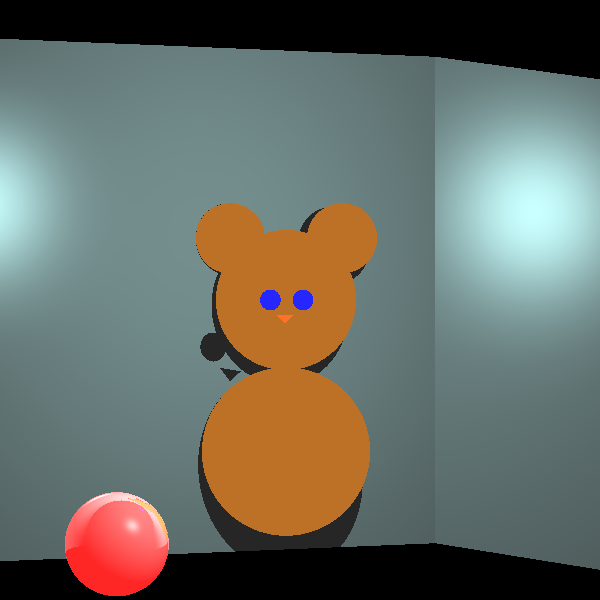
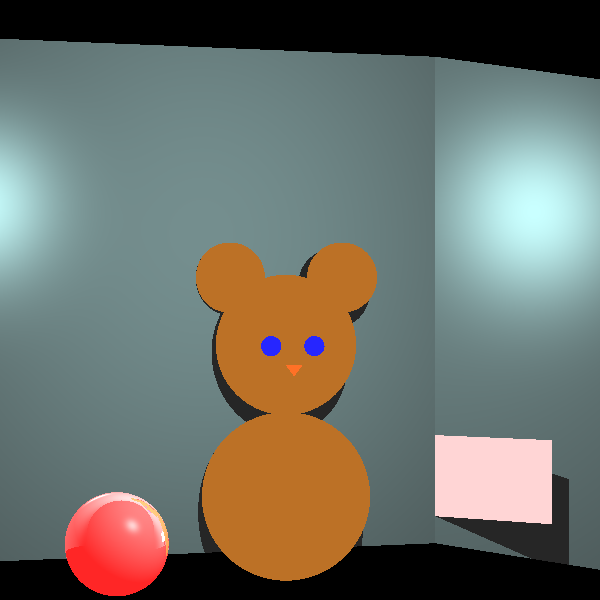
fix bear

Changed region(s): [[0.3, 0.33, 0.63, 0.99], [0.72, 0.72, 0.96, 0.96], [0.27, 0.9, 0.3, 0.93]]

diff --git a/unitTest/images/ourImages.java b/unitTest/images/ourImages.java
@@ -146,26 +146,35 @@ public class ourImages {
 //                new Cylinder(new Ray(new Point(0, -90, -17), new Vector(1, -1, -0.3)), 5d, 1)
 //                        .setEmission(new Color(black))
 //                        .setMaterial(new Material().setKd(0.5).setKs(0.8).setShininess(30).setKr(1)),
-                //Sa tete
-                new Sphere(new Point(-5, 0, -70), 25d).setEmission(new Color(150, 75, 0)),
+                //head
+                new Sphere(new Point(-5, -16, -70), 25d).setEmission(new Color(150, 75, 0)),
 
-                //ses oreilles
-                new Sphere(new Point(15, 22, -70), 12.5).setEmission(new Color(150, 75, 0)),
-                new Sphere(new Point(-25, 22, -70), 12.5).setEmission(new Color(150, 75, 0)),
+                //ears
+                new Sphere(new Point(15, 8, -70), 12.5).setEmission(new Color(150, 75, 0)),
+                new Sphere(new Point(-25, 8, -70), 12.5).setEmission(new Color(150, 75, 0)),
 
-                //son ventre
-                new Sphere(new Point(-5, -54, -70), 30).setEmission(new Color(150, 75, 0)),
+                //belly
+                new Sphere(new Point(-5, -70, -70), 30).setEmission(new Color(150, 75, 0)),
 
-                //ses yeux
-                new Sphere(new Point(-10, 0, -15d), 3.5).setEmission(new Color(0, 0, 255)),
-                new Sphere(new Point(1, 0, -15d), 3.5).setEmission(new Color(0, 0, 255)),
+                //eyes
+                new Sphere(new Point(-10, -16, -40d), 3.5).setEmission(new Color(0, 0, 255)),
+                new Sphere(new Point(5, -16, -40d), 3.5).setEmission(new Color(0, 0, 255)),
 
-                //son nez
+                //nose
                 new Triangle(
-                        new Point(-8, -5, -15),
-                        new Point(-2, -5, -15),
-                        new Point(-5, -8, -15)).
+                        new Point(-5, -22, -20),
+                        new Point(1, -22, -20),
+                        new Point(-2, -26, -20)).
                         setEmission(new Color(250, 75, 0)),
+
+                new Polygon(
+                        new Point(90,-50,-70),
+                        new Point(95,-50,-65),
+                        new Point(95,-80,-65),
+                        new Point(90,-80,-70)).setEmission(new Color(pink)),
+
+
+
 
 
 
